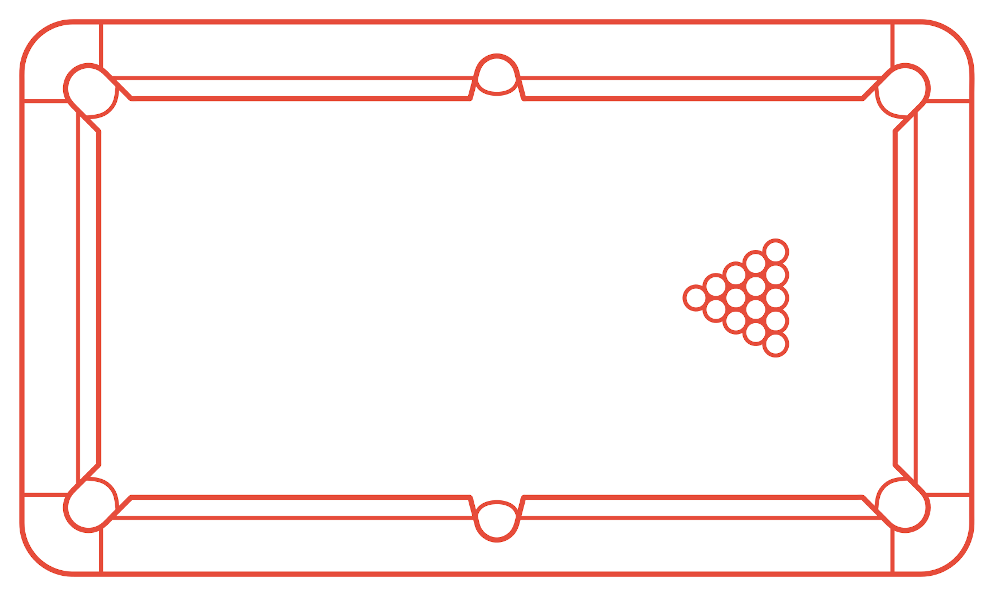
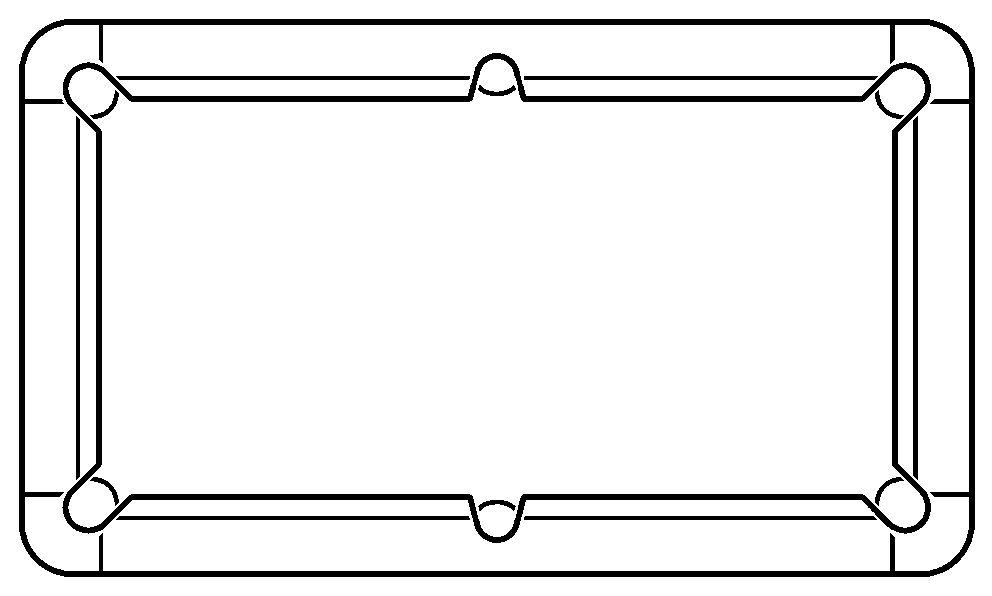
Contruct table by pymunk march

Changed region(s): [[0.0, 0.0302, 1.0, 0.9664], [0.6875, 0.3926, 0.8125, 0.604]]

diff --git a/setup.py b/setup.py
@@ -13,6 +13,8 @@ from pygame.color import *
 # pymunk imports
 import pymunk
 import pymunk.pygame_util
+import pymunk.autogeometry
+from pymunk import Vec2d
 
 from ball import Ball
 from table import Table
@@ -79,15 +81,64 @@ class PoolGame(object):
         Create the static bodies.
         :return: None
         """
-        static_body = self._space.static_body
-        static_lines = Table({"height": TABLE_HEIGHT, "length": TABLE_LENGTH, "corner_pocket_width": CORNER_POCKET_WIDTH,
-                              "central_pocket_width": CENTRAL_POCKET_WIDTH, "corner_pocket_depth": CORNER_POCKET_DEPTH,
-                              "central_pocket_depth": CENTRAL_POCKET_DEPTH, "static_body": static_body})
-        static_lines = static_lines.shift(100, 100)
-        for line in static_lines:
-            line.elasticity = 0.95
-            line.friction = 0.9
-        self._space.add(static_lines)
+        space = self._space
+
+        logo_img = pygame.image.load("table_outline.png")
+        logo_bb = pymunk.BB(0, 0, logo_img.get_width(), logo_img.get_height())
+
+        def sample_func(point):
+            try:
+                p = pymunk.pygame_util.to_pygame(point, logo_img)
+                color = logo_img.get_at(p)
+
+                return color.hsla[2]
+            except:
+                return 0
+
+        line_set = pymunk.autogeometry.PolylineSet()
+
+        def segment_func(v0, v1):
+            line_set.collect_segment(v0, v1)
+
+        logo_img.lock()
+        pymunk.autogeometry.march_soft(
+            logo_bb,
+            logo_img.get_width(), logo_img.get_height(),
+            99,
+            segment_func,
+            sample_func)
+        logo_img.unlock()
+
+        r = 10
+
+        for line in line_set:
+            line = pymunk.autogeometry.simplify_curves(line, .7)
+
+            max_x = 0
+            min_x = 1000
+            max_y = 0
+            min_y = 1000
+            for l in line:
+                max_x = max(max_x, l.x)
+                min_x = min(min_x, l.x)
+                max_y = max(max_y, l.y)
+                min_y = min(min_y, l.y)
+            w, h = max_x - min_x, max_y - min_y
+
+            center = Vec2d(min_x + w/2., min_y + h/2.)
+
+            r += 30
+            if r > 255:
+                r = 0
+
+            if True:
+                for i in range(len(line)-1):
+                    shape = pymunk.Segment(
+                        space.static_body, line[i], line[i+1], 1)
+                    shape.friction = 0.9
+                    shape.elasticity = 0.95
+                    shape.color = (255, 255, 255)
+                    space.add(shape)
 
     def _process_events(self):
         """
